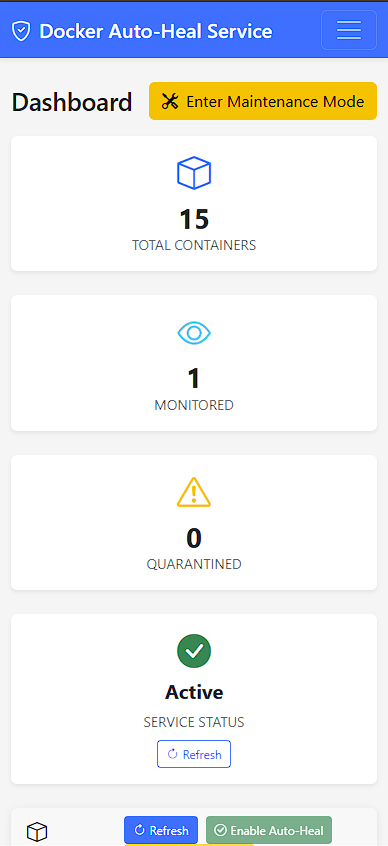
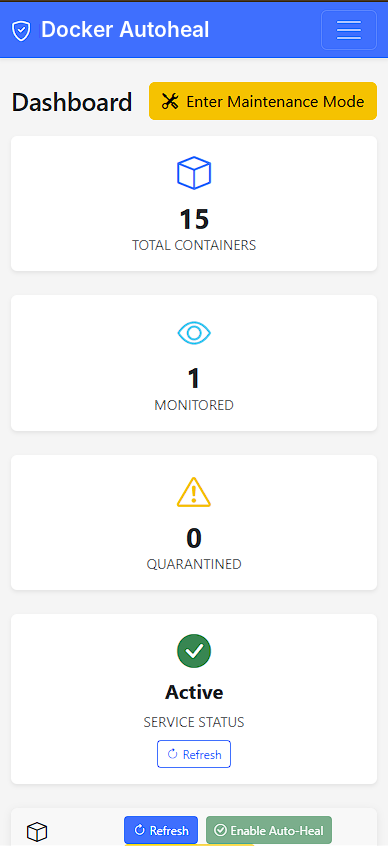
chore: remove "Service" from application branding (#198)
* chore: remove "Service" from application branding

Rename the product from "Docker Auto-Heal Service" to "Docker Autoheal" in
the UI, manifest, HTML title, docs, docstrings, log messages and tests.
Technical identifiers and historical docs are unchanged.

Release note: the application is now named Docker Autoheal.

Refs #197

Claude-Session: https://claude.ai/code/session_01VhmpwTxhCbnYSKz4Xh2hbf

* chore: use Docker Autoheal for remaining product-name spellings

Update the notification footer, default webhook username, test
notification text, username placeholder, README, SECURITY, CONTRIBUTING
and docs from "Docker Auto-Heal" to "Docker Autoheal" so the product
name is consistent, as issue #197 requires.

Release note: the default webhook username is now "Docker Autoheal".

Refs #197

Claude-Session: https://claude.ai/code/session_01VhmpwTxhCbnYSKz4Xh2hbf

* refactor: rename AutoHealService and reword Auto-Heal service prose

Rename the AutoHealService class to AutohealApp and update its tests.
Reword the remaining product-name uses of "Auto-Heal" and "Auto-Heal
service" in docs, test docstrings, pytest.ini and the smoke-test error
message to "Docker Autoheal" / "Docker Autoheal instance". Feature
wording such as auto-healing is unchanged.

Refs #197

Claude-Session: https://claude.ai/code/session_01VhmpwTxhCbnYSKz4Xh2hbf

* chore: reword Autoheal service in test-validator agent

Refs #197

Claude-Session: https://claude.ai/code/session_01VhmpwTxhCbnYSKz4Xh2hbf
[…]

Changed region(s): [[0.0928, 0.0, 0.7113, 0.0615]]

diff --git a/frontend/e2e-ui/parallel/navigation.spec.js b/frontend/e2e-ui/parallel/navigation.spec.js
@@ -27,7 +27,7 @@ test(
 
     // "/" redirects to /containers client-side.
     await expect(page).toHaveURL(/\/containers$/);
-    await expect(page.getByText("Docker Auto-Heal Service")).toBeVisible();
+    await expect(page.getByText("Docker Autoheal")).toBeVisible();
     // The Dashboard only renders once /api/status has succeeded.
     await expect(
       page.getByRole("heading", { name: "Dashboard" }),
@@ -95,5 +95,5 @@ test("a saved theme is applied before the app renders", async ({ page }) => {
   await page.goto("/containers");
 
   await expect(page.locator("html")).toHaveAttribute("data-bs-theme", "dark");
-  await expect(page.getByText("Docker Auto-Heal Service")).toHaveCount(0);
+  await expect(page.getByText("Docker Autoheal")).toHaveCount(0);
 });

diff --git a/frontend/index.html b/frontend/index.html
@@ -17,9 +17,9 @@
     <meta name="mobile-web-app-capable" content="yes" />
     <meta name="apple-mobile-web-app-capable" content="yes" />
     <meta name="apple-mobile-web-app-status-bar-style" content="default" />
-    <meta name="apple-mobile-web-app-title" content="AutoHeal" />
+    <meta name="apple-mobile-web-app-title" content="Autoheal" />
 
-    <title>Docker Auto-Heal Service</title>
+    <title>Docker Autoheal</title>
   </head>
   <body>
     <!-- Apply the saved theme before the app renders to avoid a flash of the wrong one. -->

diff --git a/frontend/src/pwa.test.js b/frontend/src/pwa.test.js
@@ -8,7 +8,7 @@ describe("PWA manifest", () => {
   const manifest = JSON.parse(read("../public/manifest.json"));
 
   it("is installable: name, start_url, standalone display", () => {
-    expect(manifest.name).toBe("Docker Auto-Heal Service");
+    expect(manifest.name).toBe("Docker Autoheal");
     expect(manifest.start_url).toBe("/");
     expect(manifest.display).toBe("standalone");
   });

diff --git a/frontend/e2e-ui/parallel/pwa.spec.js b/frontend/e2e-ui/parallel/pwa.spec.js
@@ -32,7 +32,7 @@ test(
   async ({ page }) => {
     await loadControlledPage(page);
     await page.goto("/containers");
-    await expect(page.getByText("Docker Auto-Heal Service")).toBeVisible();
+    await expect(page.getByText("Docker Autoheal")).toBeVisible();
     // Real API traffic has happened by now; none of it may be in Cache Storage.
     const paths = await cachedPaths(page);
 

diff --git a/frontend/src/App.test.jsx b/frontend/src/App.test.jsx
@@ -54,7 +54,7 @@ describe("App", () => {
     );
 
     expect(await screen.findByText("Dashboard")).toBeInTheDocument();
-    expect(screen.getByText("Docker Auto-Heal Service")).toBeInTheDocument();
+    expect(screen.getByText("Docker Autoheal")).toBeInTheDocument();
   });
 
   it("shows the maintenance modal when the backend reports maintenance mode active", async () => {

diff --git a/frontend/src/App.routing.test.jsx b/frontend/src/App.routing.test.jsx
@@ -221,7 +221,7 @@ describe("App routing", () => {
     });
 
     expectOnlyStubsVisible([]);
-    expect(screen.getByText("Docker Auto-Heal Service")).toBeInTheDocument();
+    expect(screen.getByText("Docker Autoheal")).toBeInTheDocument();
   });
 
   it("works with a real BrowserRouter: click-navigation and back button update the URL", async () => {

diff --git a/frontend/src/components/NotificationsPage.jsx b/frontend/src/components/NotificationsPage.jsx
@@ -381,7 +381,7 @@ function NotificationsPage() {
                 onChange={(e) =>
                   setFormData({ ...formData, username: e.target.value })
                 }
-                placeholder="Docker Auto-Heal"
+                placeholder="Docker Autoheal"
               />
             </Form.Group>
           </>

diff --git a/frontend/src/components/Navigation.jsx b/frontend/src/components/Navigation.jsx
@@ -14,7 +14,7 @@ function Navigation({ systemStatus }) {
       <Container fluid>
         <Navbar.Brand>
           <i className="bi bi-shield-check me-2"></i>
-          Docker Auto-Heal Service
+          Docker Autoheal
         </Navbar.Brand>
 
         <Navbar.Toggle aria-controls="basic-navbar-nav" />

diff --git a/app/main.py b/app/main.py
@@ -1,5 +1,5 @@
 """
-Main entry point for Docker Auto-Heal Service
+Main entry point for Docker Autoheal
 """
 
 import asyncio
@@ -116,9 +116,9 @@ class AutoHealService:
         self._startup_cancelled = False
 
     async def start(self) -> None:
-        """Start the auto-heal service"""
+        """Start Docker Autoheal"""
         try:
-            logger.info("Starting Docker Auto-Heal Service v%s", app.version)
+            logger.info("Starting Docker Autoheal v%s", app.version)
 
             # Load configuration
             config = config_manager.get_config()
@@ -182,7 +182,7 @@ class AutoHealService:
                     logger.warning("Uptime-Kuma failed to start: %s", e)
 
             self.running = True
-            logger.info("Docker Auto-Heal Service started successfully")
+            logger.info("Docker Autoheal started successfully")
             ui_url = get_ui_url(config)
             public_port = get_public_port()
             if ui_url:
@@ -228,7 +228,7 @@ class AutoHealService:
 
     async def stop(self) -> None:
         """
-        Stop the auto-heal service
+        Stop Docker Autoheal
 
         Safe to call concurrently (the signal handler and ``run()`` both do): later callers
         wait for the first shutdown to finish, then return without repeating it.
@@ -271,7 +271,7 @@ class AutoHealService:
 
     async def _shutdown(self) -> None:
         """Stop the components and release the Docker client and metrics server"""
-        logger.info("Stopping Docker Auto-Heal Service...")
+        logger.info("Stopping Docker Autoheal...")
 
         # Stop components gracefully with error handling. The Docker client is
         # closed in `finally` so a cancellation (not an Exception) during an
@@ -302,7 +302,7 @@ class AutoHealService:
                 except Exception as e:
                     logger.warning("Error closing Docker client: %s", e, exc_info=True)
 
-        logger.info("Docker Auto-Heal Service stopped")
+        logger.info("Docker Autoheal stopped")
 
     async def run(self) -> None:
         """Run the service (blocking)"""

diff --git a/app/notifications/notification_manager.py b/app/notifications/notification_manager.py
@@ -517,12 +517,12 @@ class NotificationManager:
             "description": message.replace("**", ""),
             "color": color_map.get(priority, 0x3498DB),
             "timestamp": event.timestamp.isoformat(),
-            "footer": {"text": "Docker Auto-Heal"},
+            "footer": {"text": "Docker Autoheal"},
         }
 
         payload = {
             "embeds": [embed],
-            "username": service.username or "Docker Auto-Heal",
+            "username": service.username or "Docker Autoheal",
         }
 
         session = self._get_session("Discord")
@@ -853,11 +853,11 @@ class NotificationManager:
             event_type="test",
             restart_count=0,
             status="success",
-            message="This is a test notification from Docker Auto-Heal",
+            message="This is a test notification from Docker Autoheal",
         )
 
         title = "🧪 Test Notification"
-        message = "This is a test notification from Docker Auto-Heal. If you received this, your notification service is configured correctly!"
+        message = "This is a test notification from Docker Autoheal. If you received this, your notification service is configured correctly!"
         priority = NotificationPriority.NORMAL
 
         _last_failure.set(None)

diff --git a/app/tests/integration/conftest.py b/app/tests/integration/conftest.py
@@ -1,8 +1,8 @@
 """
-Shared fixtures for the Docker Auto-Heal integration suite.
+Shared fixtures for the Docker Autoheal integration suite.
 
 Unlike ``app/tests/unit``, these tests exercise the real Docker SDK and/or a
-running Auto-Heal service (the development stack on ``http://localhost:3132`` by default). They are never
+running Docker Autoheal instance (the development stack on ``http://localhost:3132`` by default). They are never
 collected by a plain ``pytest`` run (see ``pytest.ini``'s ``testpaths`` and
 ``docs/developer/testing.md``) and every test here is skipped, rather than failed, when
 the resource it needs isn't available.
@@ -53,12 +53,12 @@ def real_docker_client():
 
 @pytest.fixture
 def running_service():
-    """Skip the test unless a live Auto-Heal service answers at AUTOHEAL_BASE_URL."""
+    """Skip the test unless a live Docker Autoheal instance answers at AUTOHEAL_BASE_URL."""
     try:
         response = requests.get(f"{AUTOHEAL_BASE_URL}/health", timeout=3)
         response.raise_for_status()
     except Exception as exc:
-        pytest.skip(f"No running Auto-Heal service at {AUTOHEAL_BASE_URL}: {exc}")
+        pytest.skip(f"No running Docker Autoheal instance at {AUTOHEAL_BASE_URL}: {exc}")
     return AUTOHEAL_BASE_URL
 
 

diff --git a/app/tests/unit/test_static_file_serving.py b/app/tests/unit/test_static_file_serving.py
@@ -80,7 +80,7 @@ async def test_serve_static_file_serves_sw_js(static_dir):
 
 @pytest.mark.asyncio
 async def test_serve_static_file_serves_manifest_json(static_dir):
-    content = b'{"name": "Docker Auto-Heal"}'
+    content = b'{"name": "Docker Autoheal"}'
     (static_dir / "manifest.json").write_bytes(content)
 
     response = await serve_static_file("manifest.json", "application/manifest+json")
@@ -305,7 +305,7 @@ def test_serve_react_app_fallback_page_is_exact(tmp_path, monkeypatch):
     response = api_module.serve_react_app()
 
     assert bytes(response.body).decode() == (
-        "<h1>Docker Auto-Heal Service</h1>"
+        "<h1>Docker Autoheal</h1>"
         "<p>React UI not found. Please build the frontend first:</p>"
         "<pre>cd frontend && npm install && npm run build</pre>"
         "<p>API documentation is available at <a href='/api/swagger'>/api/swagger</a></p>"
